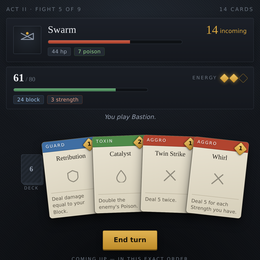
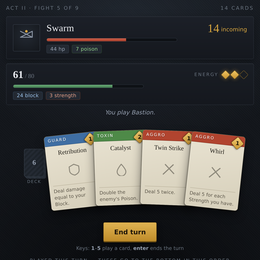
Procession: fix a lying intent, and show the state the mechanic depends on
The worst bug in the game was a dead mechanic. The Hexer announced "preparing
a hex" and then did nothing: the status it applied was set in the simulator and
never read, and did not exist in the page at all. In a game whose premise is
that the enemy tells you its exact next move, a move that lies is the one
unacceptable defect, and no balance run surfaces it because bots do not read
intents. The hex now weakens your attacks by a quarter, the intent says so, and
the player panel shows it.

Its sibling: it said "weak 2" and lasted one turn, because it was applied and
expired inside the same end-of-turn block. The decrement moved to the top of
end-turn, and the sequence is asserted to go 2, 1, 0 across three turns.

Balance re-measured after both (N=120): skip-everything 0.0%, greedy-damage
10.0%, random 29.2%, the four archetypes 36.7-46.7%. The attack-only bot got
notably worse, which is the right direction for a debuff that punishes decks
with no defence. Engine cross-check re-run with the new status included: 3,535
comparisons, 0 mismatches, with the hex active on 10 of the traced turns.

Also shown for the first time, all of it state the engine tracked and the
screen withheld: the cards already played this turn in order (they are about to
become the bottom of the deck, which is the whole game), whether Block is being
kept into the next turn, and that you are weakened.

Plus: damage and healing numbers pop with a shake on the struck panel, keys 1-5
[…]

diff --git a/games/procession.html b/games/procession.html
@@ -127,8 +127,9 @@ button{font:inherit; cursor:pointer; border:0; background:none; color:inherit}
 .hand .card:first-child{margin-left:0}
 .hand .card:hover{ transform:translateY(-22px) rotate(0deg) scale(1.06) !important; z-index:60;
   box-shadow:0 6px 10px rgba(0,0,0,.5), 0 22px 40px rgba(0,0,0,.55), inset 0 0 0 1px rgba(255,255,255,.5)}
-.card.dead{filter:grayscale(.72) brightness(.72)}
-.card.dead:hover{transform:translateY(-8px) rotate(0deg) scale(1) !important}
+.card.dead{filter:grayscale(.35) brightness(.82); opacity:.85}
+.card.dead{cursor:default}
+.card.dead:hover{transform:none !important}
 
 .card .band{height:23px; flex:0 0 23px; display:flex; align-items:center; justify-content:space-between; padding:0 8px;
   background:var(--neutral); color:#fff; font-size:9.5px; letter-spacing:.19em; text-transform:uppercase;
@@ -151,7 +152,9 @@ button{font:inherit; cursor:pointer; border:0; background:none; color:inherit}
 /* ---- upcoming queue: overlapping slips ---- */
 .queue-h{font-size:10.5px; letter-spacing:.2em; text-transform:uppercase; color:var(--faint); margin:16px 0 9px}
 #s-fight .queue-h{text-align:center}
+#playedwrap{margin-top:4px}
 .queue{display:flex; overflow-x:auto; padding:2px 0 10px; justify-content:center}
+.queue.played .qc{opacity:.72; filter:saturate(.75)}
 .qc{flex:0 0 auto; margin-right:-8px; background:linear-gradient(168deg,#ded8c6,#c8c1ac);
   color:#2a2720; border:1px solid #7a7360; border-top-width:4px; border-radius:4px;
   padding:5px 11px 6px; font-size:11.5px; white-space:nowrap; box-shadow:0 3px 8px rgba(0,0,0,.4);
@@ -188,6 +191,19 @@ button{font:inherit; cursor:pointer; border:0; background:none; color:inherit}
   padding:5px 8px; font:inherit; font-size:12px; width:112px}
 .note{font-size:12.5px; color:var(--faint); line-height:1.65; margin-top:22px;
   border-top:1px solid var(--edge); padding-top:14px}
+.pop{position:absolute; font-family:var(--serif); font-size:34px; font-weight:700; pointer-events:none;
+  z-index:80; animation:pop .85s cubic-bezier(.2,.8,.3,1) forwards; text-shadow:0 2px 10px rgba(0,0,0,.8)}
+.pop.dmg{color:#ffb08f} .pop.hurt{color:#ff8371} .pop.heal{color:#8ade96}
+@keyframes pop{0%{opacity:0; transform:translateY(6px) scale(.85)}
+  18%{opacity:1; transform:translateY(-6px) scale(1.12)}
+  100%{opacity:0; transform:translateY(-46px) scale(1)}}
+.shake{animation:shk .34s ease}
+@keyframes shk{0%,100%{transform:translateX(0)} 18%{transform:translateX(-6px)}
+  38%{transform:translateX(5px)} 58%{transform:translateX(-3px)} 78%{transform:translateX(2px)}}
+.foe,.me{position:relative}
+.keyhint{text-align:center; font-size:11.5px; color:var(--faint); margin:9px 0 0}
+.keyhint b{color:var(--dim); font-weight:600}
+@media (hover:none){.keyhint{display:none}}
 .hidden{display:none !important}
 
 @media (max-width:600px){
@@ -254,7 +270,7 @@ button{font:inherit; cursor:pointer; border:0; background:none; color:inherit}
 <section id="s-fight" class="screen">
   <div class="hud"><span id="floor">Act I · Fight 1</span><span id="deckcount">10 cards</span></div>
 
-  <div class="foe">
+  <div class="foe" id="foe">
     <div class="rune" id="erune"></div>
     <div class="foe-body">
       <div class="foe-top"><span class="nm" id="ename">—</span><span class="intent" id="eintent">—</span></div>
@@ -263,7 +279,7 @@ button{font:inherit; cursor:pointer; border:0; background:none; color:inherit}
     </div>
   </div>
 
-  <div class="me">
+  <div class="me" id="mepanel">
     <div class="me-top">
       <span class="hp"><b id="phpv">80</b><span class="hpmax"> / <span id="pmaxv">80</span></span></span>
       <span class="epips"><span class="elabel">Energy</span><span id="energy"></span></span>
@@ -280,6 +296,11 @@ button{font:inherit; cursor:pointer; border:0; background:none; color:inherit}
   </div>
 
   <div class="row" style="justify-content:center"><button class="btn" id="endturn">End turn</button></div>
+  <p class="keyhint">Keys: <b>1</b>–<b>5</b> play a card, <b>enter</b> ends the turn</p>
+  <div id="playedwrap" class="hidden">
+    <div class="queue-h">Played this turn — these go to the bottom in this order</div>
+    <div class="queue played" id="played"></div>
+  </div>
   <div class="queue-h">Coming up — in this exact order</div>
   <div class="queue" id="queue"></div>
 </section>
@@ -410,7 +431,7 @@ function startFight(){
   const e = ENEMIES[S.act][S.fight % 3];
   S.c = { deck:S.deck.slice(), hand:[], played:[], turn:0,
           ehp:e.hp, ehpMax:e.hp, eblock:0, estr:0, intents:e.i, ename:e.n,
-          block:0, stre:0, thorns:0, poison:0, nodecay:0, weak:0, vuln:0, energy:ENERGY, retain:0 };
+          block:0, stre:0, thorns:0, poison:0, nodecay:0, weak:0, vuln:0, pweak:0, energy:ENERGY, retain:0 };
   show("fight"); startTurn(); render();
 }
 function startTurn(){
@@ -422,6 +443,7 @@ function startTurn(){
 }
 function dealDmg(amt){
   const c = S.c;
+  if (c.pweak > 0) amt = Math.floor(amt * 0.75);
   amt = Math.floor(amt * (c.vuln > 0 ? 1.5 : 1));
   if (amt <= 0) return;
   const ab = Math.min(c.eblock, amt); c.eblock -= ab; amt -= ab;
@@ -430,6 +452,7 @@ function dealDmg(amt){
 function playCard(i){
   const c = S.c, f = CARDS[c.hand[i]];
   if (!f || f.cost > c.energy || S.busy) return;
+  const ehpBefore = c.ehp, phpBefore = S.php;
   c.energy -= f.cost;
   const name = c.hand.splice(i,1)[0];
   c.played.push(name);
@@ -460,6 +483,9 @@ function playCard(i){
     let j = 0; for (let k=1;k<w.length;k++) if (CARDS[w[k]].cost > CARDS[w[j]].cost) j = k;
     c.deck.unshift(c.deck.splice(j,1)[0]);
   }
+  const dealt = ehpBefore - c.ehp;
+  if (dealt > 0){ pop("foe", String(dealt), "dmg"); shake("foe"); }
+  if (S.php > phpBefore) pop("mepanel", "+" + (S.php - phpBefore), "heal");
   log(`You play ${name}.`);
   if (c.ehp <= 0) return finishFight(true);
   render();
@@ -467,6 +493,8 @@ function playCard(i){
 function endTurn(){
   const c = S.c;
   if (S.busy) return;
+  const phpBefore = S.php, ehpBefore = c.ehp;
+  if (c.pweak > 0) c.pweak--;   // one of the player's turns has now been spent weakened
   c.deck.push(...c.played, ...c.hand);
   c.hand = []; c.played = [];
   if (c.poison > 0){
@@ -489,7 +517,10 @@ function endTurn(){
     log(`${c.ename} attacks.`);
   } else if (it[0] === "block"){ c.eblock += it[1]; log(`${c.ename} braces.`); }
   else if (it[0] === "buff"){ c.estr += it[1]; log(`${c.ename} grows stronger.`); }
-  else if (it[0] === "debuff"){ log(`${c.ename} hexes you.`); }
+  else if (it[0] === "debuff"){ c.pweak += 2; log(`${c.ename} hexes you — your attacks are weakened.`); }
+  const took = phpBefore - S.php, bit = ehpBefore - c.ehp;
+  if (took > 0){ pop("mepanel", String(took), "hurt"); shake("mepanel"); }
+  if (bit > 0) pop("foe", String(bit), "dmg");
   if (c.weak > 0) c.weak--;
   if (c.vuln > 0) c.vuln--;
   c.turn++;
@@ -552,6 +583,17 @@ function gameOver(won){
 
 /* ---------- rendering ---------- */
 function log(t){ $("log").textContent = t; }
+function pop(hostId, text, cls){
+  const host = $(hostId);
+  const e = document.createElement("span");
+  e.className = "pop " + cls; e.textContent = text;
+  e.style.left = (44 + Math.random()*12) + "%"; e.style.top = "18%";
+  host.appendChild(e);
+  setTimeout(() => e.remove(), 900);
+}
+function shake(id){
+  const el = $(id); el.classList.remove("shake"); void el.offsetWidth; el.classList.add("shake");
+}
 const SIGILS = {
   aggro: '<path d="M4 26 L26 4 M8 4 L28 24" stroke="currentColor" stroke-width="2.6" fill="none" stroke-linecap="round"/>',
   guard: '<path d="M15 3 L26 8 v9 c0 6-5 9-11 11 -6-2-11-5-11-11 V8 Z" stroke="currentColor" stroke-width="2.2" fill="none" stroke-linejoin="round"/>',
@@ -613,7 +655,7 @@ function intentText(c){
   if (it[0] === "atkx") return `<span class="big">${it[1] + c.estr}</span> &times; ${it[2]} incoming`;
   if (it[0] === "block") return `bracing (+${it[1]} block)`;
   if (it[0] === "buff")  return `gathering strength`;
-  return `preparing a hex`;
+  return `hexing you — weak 2`;
 }
 function pips(list){ return list.filter(Boolean).join(""); }
 function render(){
@@ -640,9 +682,10 @@ function render(){
   for (let i=0;i<Math.max(ENERGY, c.energy);i++) ep += `<span class="ep${i < c.energy ? " on" : ""}"></span>`;
   $("energy").innerHTML = ep;
   $("psub").innerHTML = [
-    c.block ? `<span class="pip b">${c.block} block</span>` : "",
+    c.block ? `<span class="pip b">${c.block} block${c.retain ? " · kept" : ""}</span>` : "",
     c.stre ? `<span class="pip s">${c.stre} strength</span>` : "",
     c.thorns ? `<span class="pip t">${c.thorns} thorns</span>` : "",
+    c.pweak ? `<span class="pip w">weakened ${c.pweak}</span>` : "",
   ].join("") || `<span class="pip" style="opacity:.45">no effects</span>`;
   $("deckleft").textContent = c.deck.length;
 
@@ -658,6 +701,17 @@ function render(){
     el.style.zIndex = 10 + i;
     hand.appendChild(el);
   });
+
+  const pw = $("playedwrap"), pl = $("played");
+  if (c.played.length){
+    pw.classList.remove("hidden"); pl.innerHTML = "";
+    c.played.forEach((name,i) => {
+      const e = document.createElement("span");
+      e.className = "qc " + CARDS[name].arch;
+      e.innerHTML = `<span class="i">${i+1}</span><span class="n">${name}</span>`;
+      pl.appendChild(e);
+    });
+  } else pw.classList.add("hidden");
 
   const q = $("queue"); q.innerHTML = "";
   const upcoming = c.deck.slice(0, PEEK);
@@ -679,6 +733,25 @@ function show(name){
 
 /* ---------- wiring ---------- */
 window.addEventListener("resize", () => { if (S.c && $("s-fight").classList.contains("on")) render(); });
+document.addEventListener("keydown", e => {
+  if (e.target && /^(INPUT|TEXTAREA)$/.test(e.target.tagName)) return;
+  if (e.metaKey || e.ctrlKey || e.altKey) return;
+  const onFight = $("s-fight").classList.contains("on");
+  const onDraft = $("s-draft").classList.contains("on");
+  if (onFight){
+    if (e.key >= "1" && e.key <= "9"){
+      const i = +e.key - 1;
+      if (i < S.c.hand.length && CARDS[S.c.hand[i]].cost <= S.c.energy){ e.preventDefault(); playCard(i); }
+      return;
+    }
+    if (e.key === "Enter" || e.key === " "){ e.preventDefault(); endTurn(); }
+  } else if (onDraft){
+    if (e.key >= "1" && e.key <= "3"){
+      const cards = $("offer").querySelectorAll(".card");
+      if (cards[+e.key - 1]){ e.preventDefault(); cards[+e.key - 1].click(); }
+    }
+  }
+});
 $("start").addEventListener("click", () => newRun(($("seedin").value||"").trim()));
 $("howto").addEventListener("click", () => $("how").classList.toggle("hidden"));
 $("endturn").addEventListener("click", endTurn);

diff --git a/IDEAS.md b/IDEAS.md
@@ -590,6 +590,35 @@ by asserting the button's top sits below the lowest card rather than by looking.
 was checked against the engine cross-check afterwards — still 3,181 comparisons and 0 mismatches, so
 none of the balance work was disturbed by the reskin.
 
+A second pass before handing it over found the worst bug in the game, and it was a dead mechanic
+rather than a wrong number. **The Hexer announced "preparing a hex" and then did nothing at all** —
+the status it applied was written in the simulator and never read, and did not exist in the page
+version at all. In a game whose entire premise is that the enemy tells you its exact next move, a
+move that lies is the one unacceptable defect, and no balance run would ever surface it because the
+bots do not read intents. The check that finds this class of bug is one grep: **for every status
+effect, confirm it is both written and read.** A field that is only ever assigned is a promise the
+game does not keep. Implementing it properly cost nothing in balance — skip-everything still 0%,
+random 29.2%, the four archetypes 36.7–46.7% — and it made the naive attack-only bot notably worse
+(greedy-damage 20.7% -> 10.0%), which is the right direction.
+
+Its sibling: **the hex said "weak 2" and lasted one turn**, because it was applied and expired inside
+the same end-of-turn block. Any duration counter decremented in the same phase that can apply it is
+off by one, and it only shows in a step-by-step trace — asserting the sequence goes 2, 1, 0 across
+three turns took one line and would not have been noticed by playing.
+
+And a mechanical lesson about editing: **a find-and-replace that matches nothing fails silently.**
+The damage-pop and screen-shake CSS was written against a rule that an earlier stylesheet rewrite had
+already deleted, so the entire block vanished while the JS went on adding class names that styled
+nothing. The damage number still appeared — unstyled, laid out as a flex child 94% across the panel —
+which read as a positioning bug and sent the investigation the wrong way for a while. Asserting the
+anchor exists before substituting, and grepping for every marker afterwards, turns a silent no-op
+into an error. That audit is what caught it here.
+
+Three things the interface was missing that the mechanic needs: the cards **already played this turn,
+in order**, since they are about to become the bottom of the deck and that is the whole game; whether
+Block is being **kept** into the next turn; and that you are currently weakened. All three were state
+the engine tracked and the screen never showed.
+
 One thing deliberately not measured: whether a person enjoys it. The bots establish that the
 decisions have consequences and that several ways of building all work; they say nothing about
 whether the ten minutes are worth spending, and that stays a question for a human.
